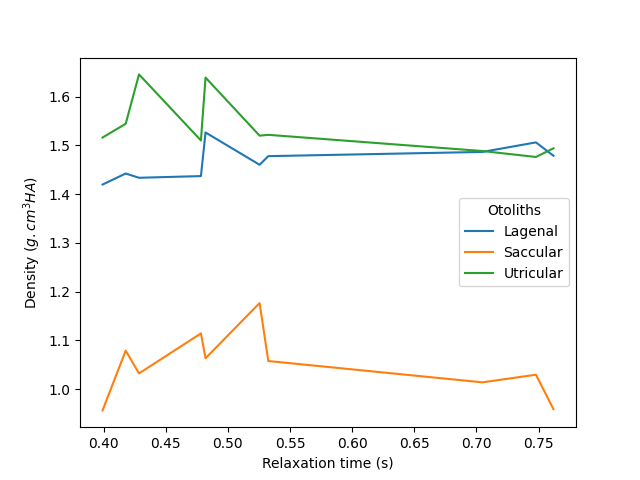
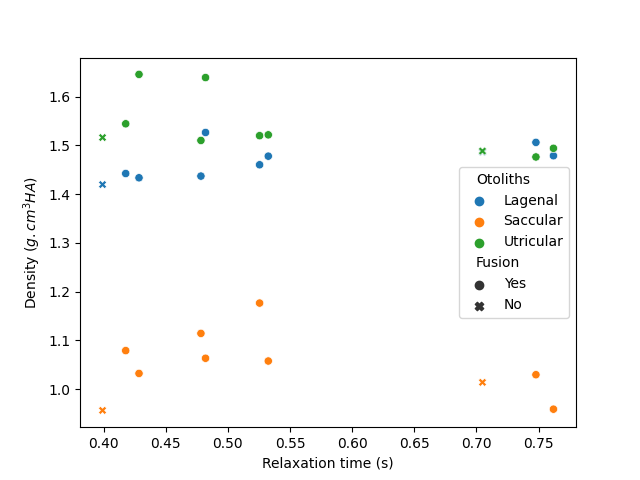
rt v dens

diff --git a/col11_six.py b/col11_six.py
@@ -115,7 +115,9 @@ if __name__ == "__main__":
 	data = [{'Relaxation time (s)': rt['relax_time(s)'][int(k)-1], 
 			'Lagenal': densities[0][k], 
 			'Saccular': densities[1][k], 
-			'Utricular': densities[2][k]}  
+			'Utricular': densities[2][k],
+			'Fusion': rt['Fusion'][int(k)-1],
+			'Fragmentation': rt['Fragmentation'][int(k)-1],}  
 			for k in densities[0].keys()]
 	df = pd.DataFrame.from_dict(data)
 
@@ -123,11 +125,11 @@ if __name__ == "__main__":
 	plt.clf()
 	plt.cla()
 
-	df = df.melt(['Relaxation time (s)'], var_name='Otoliths', value_name='Density ($g.cm^{3}HA$)')
+	df = df.melt(['Relaxation time (s)','Fusion','Fragmentation'], var_name='Otoliths', value_name='Density ($g.cm^{3}HA$)')
 	
 	print(df)
 
-	sns.lineplot(x='Relaxation time (s)', y='Density ($g.cm^{3}HA$)', hue='Otoliths' , data=df)
+	sns.scatterplot(x='Relaxation time (s)', y='Density ($g.cm^{3}HA$)', hue='Otoliths', style='Fusion', data=df)
 	plt.savefig('output/yushipaper/rt_v_dens.png')
 
 

diff --git a/col11.py b/col11.py
@@ -31,7 +31,7 @@ if __name__ == "__main__":
 
 	sixmonthold_wildtypes = ctreader.trim(wildtypes, 'age', [6,7,])
 	print(len(sixmonthold_wildtypes))
-	# exit()
+	exit()
 
 	col11s = ctreader.trim(master, 'strain', ['col11a2'])
 	col11homs = ctreader.trim(col11s, 'genotype', ['hom'])
